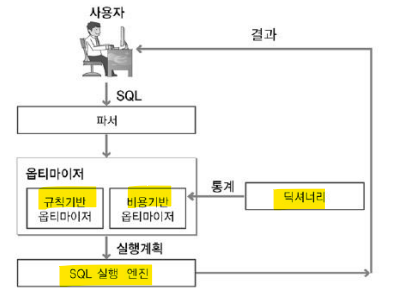
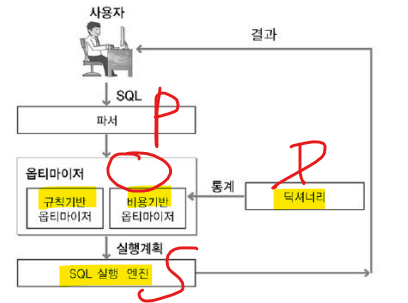
202105010005

diff --git a/note_0.js b/note_0.js
@@ -9,7 +9,7 @@ var this_week_question =
 '',
 
 /* 9주차 */
-'가설검정','레그테크','섭테크','프롭테크','트랜잭션','Random Sampling','Filtering','K-Means','SOM','Isolation Level','선형회귀모형 추론 가정','Smart Factory','위험관리','IT-Compliance','COBIT 5.0','그로스 해킹','정규 표현식','유한 오토마타','가설검정','병행제어',
+'가설검정','레그테크','섭테크','프롭테크','트랜잭션','Random Sampling','Filtering','K-Means','SOM','Isolation Level','선형회귀모형 추론 가정','Smart Factory','위험관리','IT-Compliance','COBIT 5.0','그로스 해킹','정규 표현식','유한 오토마타','가설검정','병행제어','SVM','ISO 19626','Hilbert',
 
 /* 8주차 */
 'Library','Python','ALM','SW Visualization','ARM','정보시스템 하드웨어 규모산정 지침','CMMI','ISO/IEC 33000','일정관리','WBS','Thread','Process','MVC','MVP','MVVM','테스트 자동화','DB 복제','Scheduling','비용산정','분기 예측',

diff --git a/note_db.js b/note_db.js
@@ -1180,6 +1180,7 @@ FROM TABLE_A A, TABLE_A B <br/><br/>\
 - SQL을 가장 빠르고 효율적으로 수행할 최적의 처리경로를 생성해주는 DBMS 내부의 핵심엔진 <br/>\
 - 사용자가 구조화된 질의언어로 결과집합을 요구하면, 이를 생성하는데 필요한 처리경로는 DBMS에 내장된 옵티마이저가 자동으로 생성 <br/>\
 - 실행계획 : 옵티마이저가 생성한 SQL 처리 경로<br/><br/>\
+# 개념도 (<font color = "red">PODS</font>)<br/>\
 <img src = "./img/DB_Optimizer.png" style = "max-width:100%; height:auto;"><br/><br/>\
 # 최적화 과정 <br/>\
 - 탐색 : 후보군이 될만한 실행계획 탐색 <br/>\

diff --git a/note_swe.js b/note_swe.js
@@ -3938,7 +3938,7 @@ P 히스토그램 : Data 분포 <br/>\
 - SW 공학프로세스 <br/>\
 - SW 공학도구와 방법 <br/>\
 - SW 품질 <br/><br/>\
-3. 신규기반 (<font color = "red">전경컴수공</font><br/>\
+3. 신규기반 (<font color = "red">전경컴수공)</font><br/>\
 + SW 전문가 실천 <br/>\
 + SW 경제학 <br/>\
 + SW 컴퓨팅 기반 <br/>\
